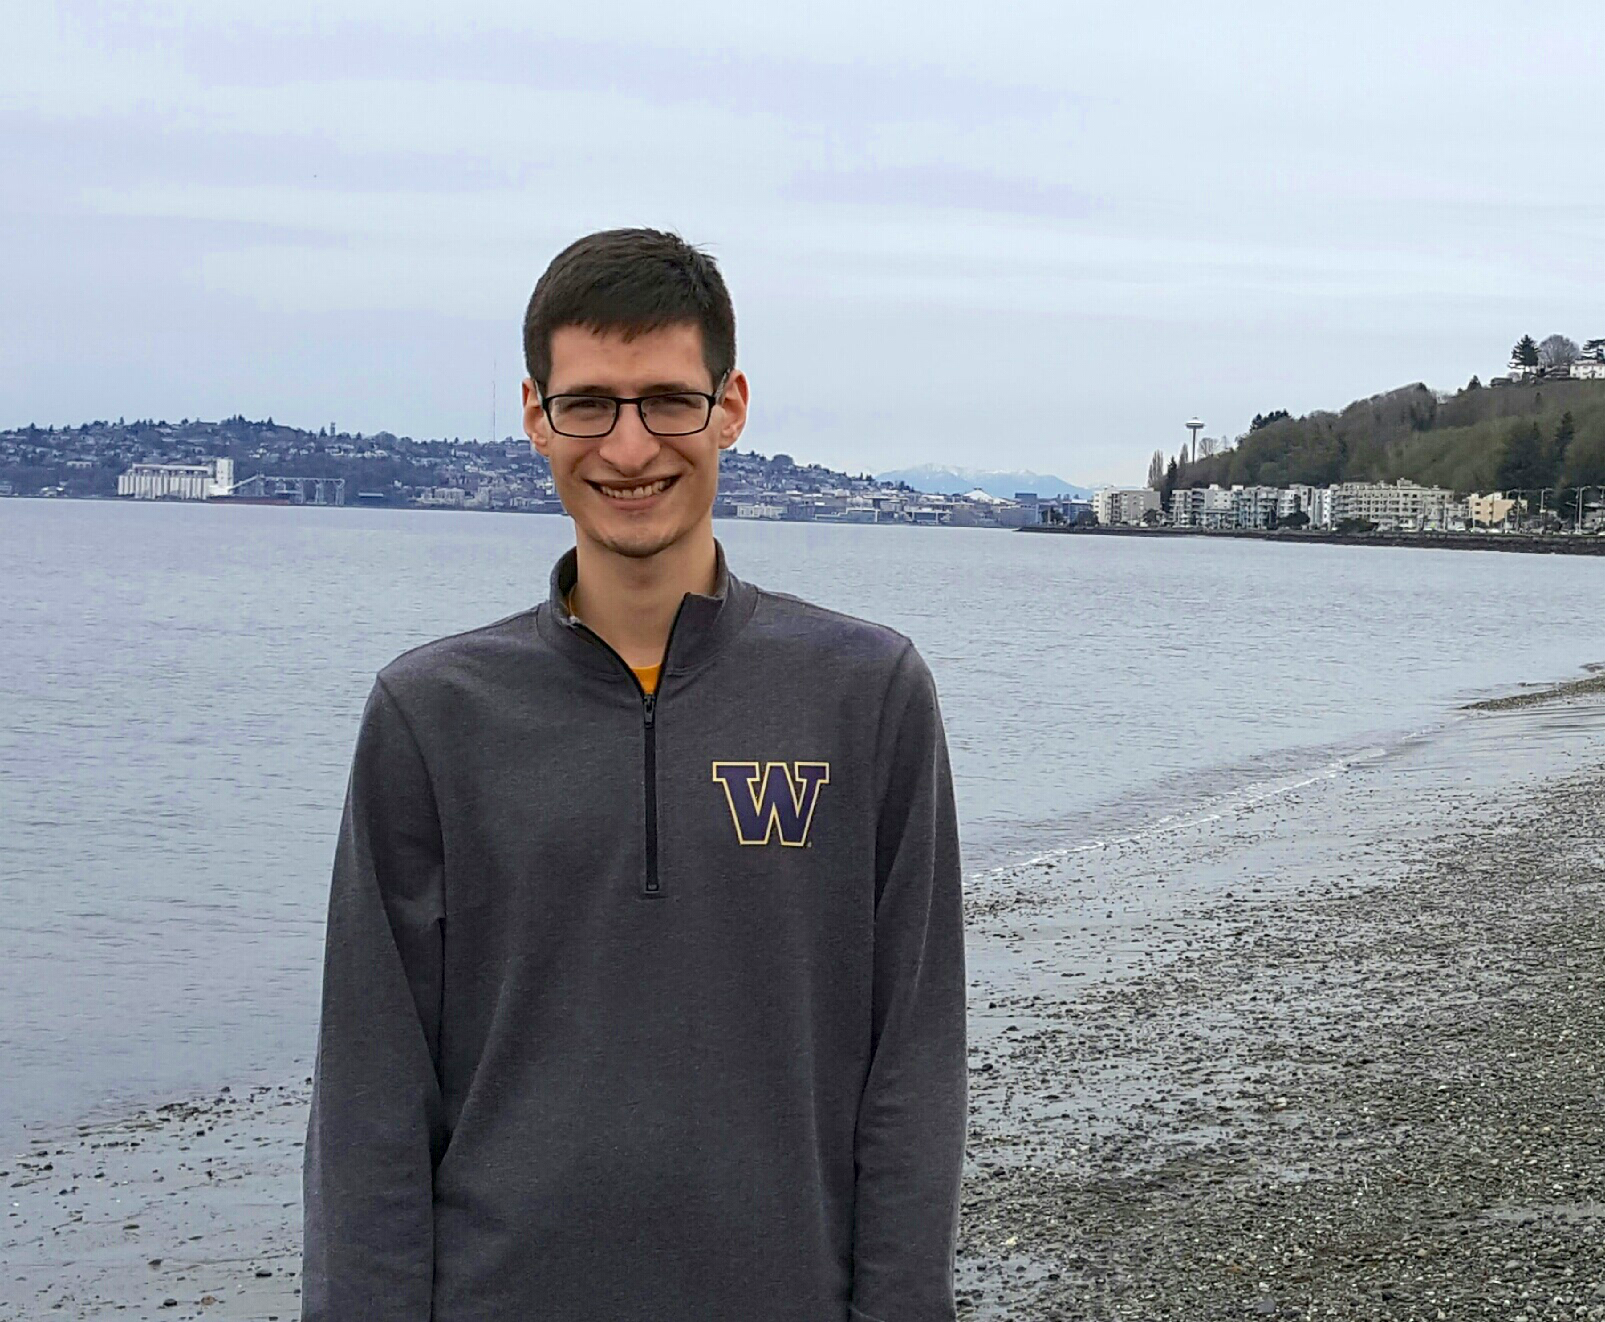
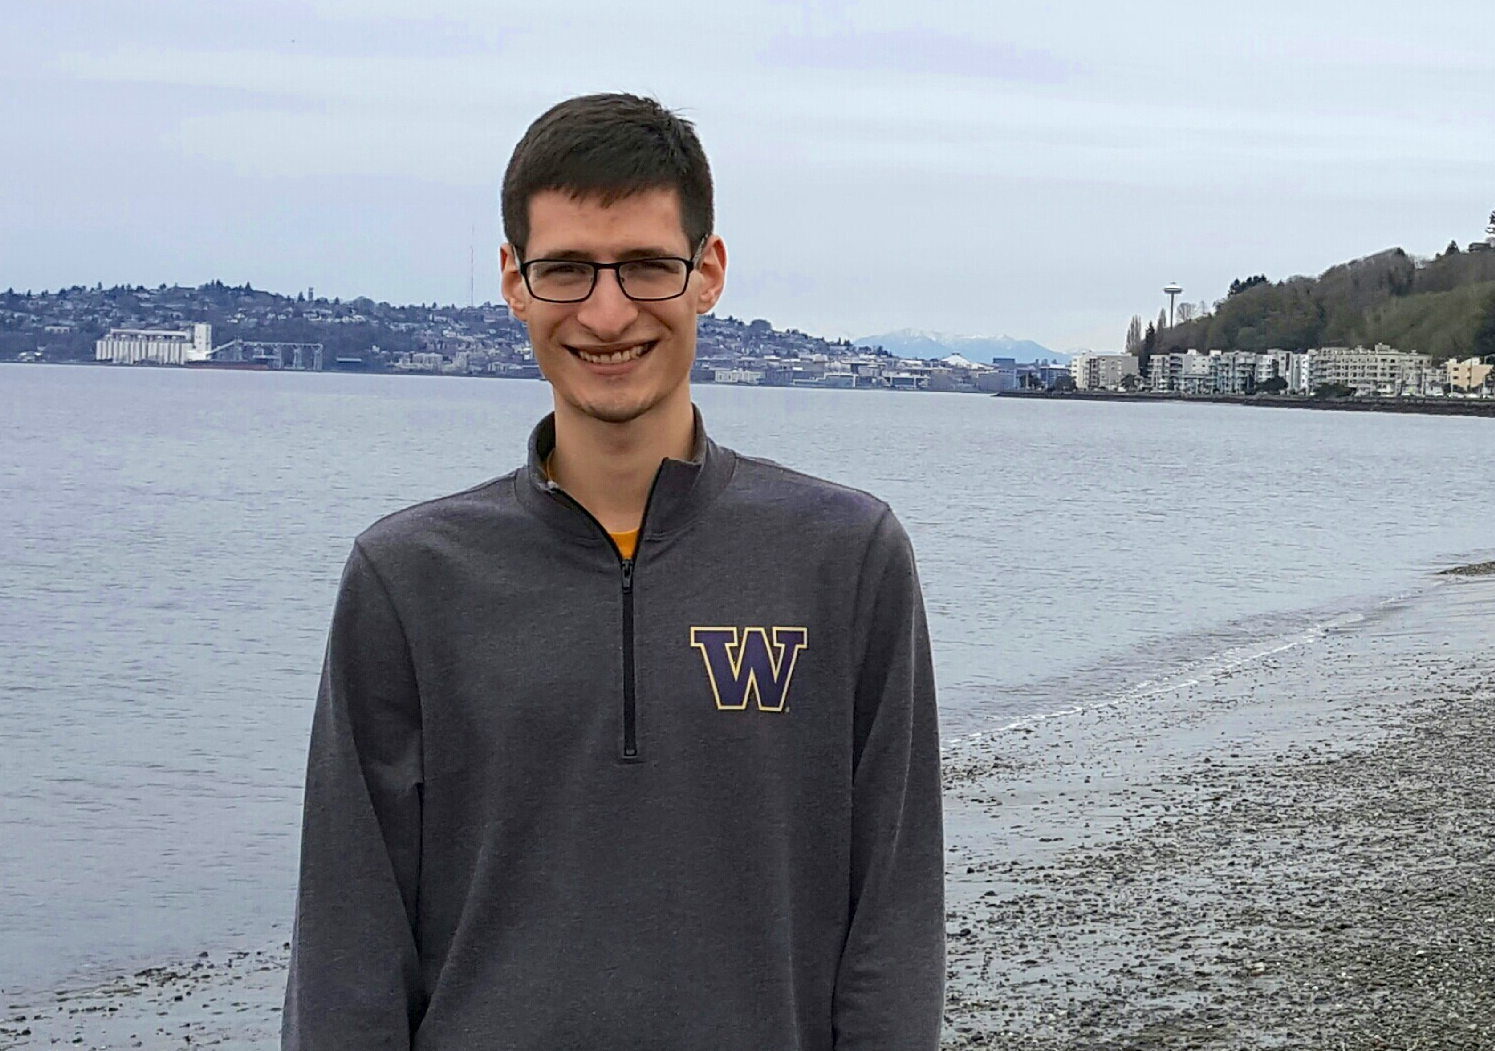
unlink the photo

diff --git a/sidebar.html b/sidebar.html
@@ -2,7 +2,7 @@
                 <table>
                     <tr>
                         <td>
-                            <a href="Images/Alki.png"><img src="Images/Alki.png" id="image" height="auto" align="right"></a>
+                            <img src="Images/Alki.png" id="image" height="auto" align="right">
                             <script>
                                 $(document).ready(function(){
                                     $("img").attr("width", $(window).width()/4);
